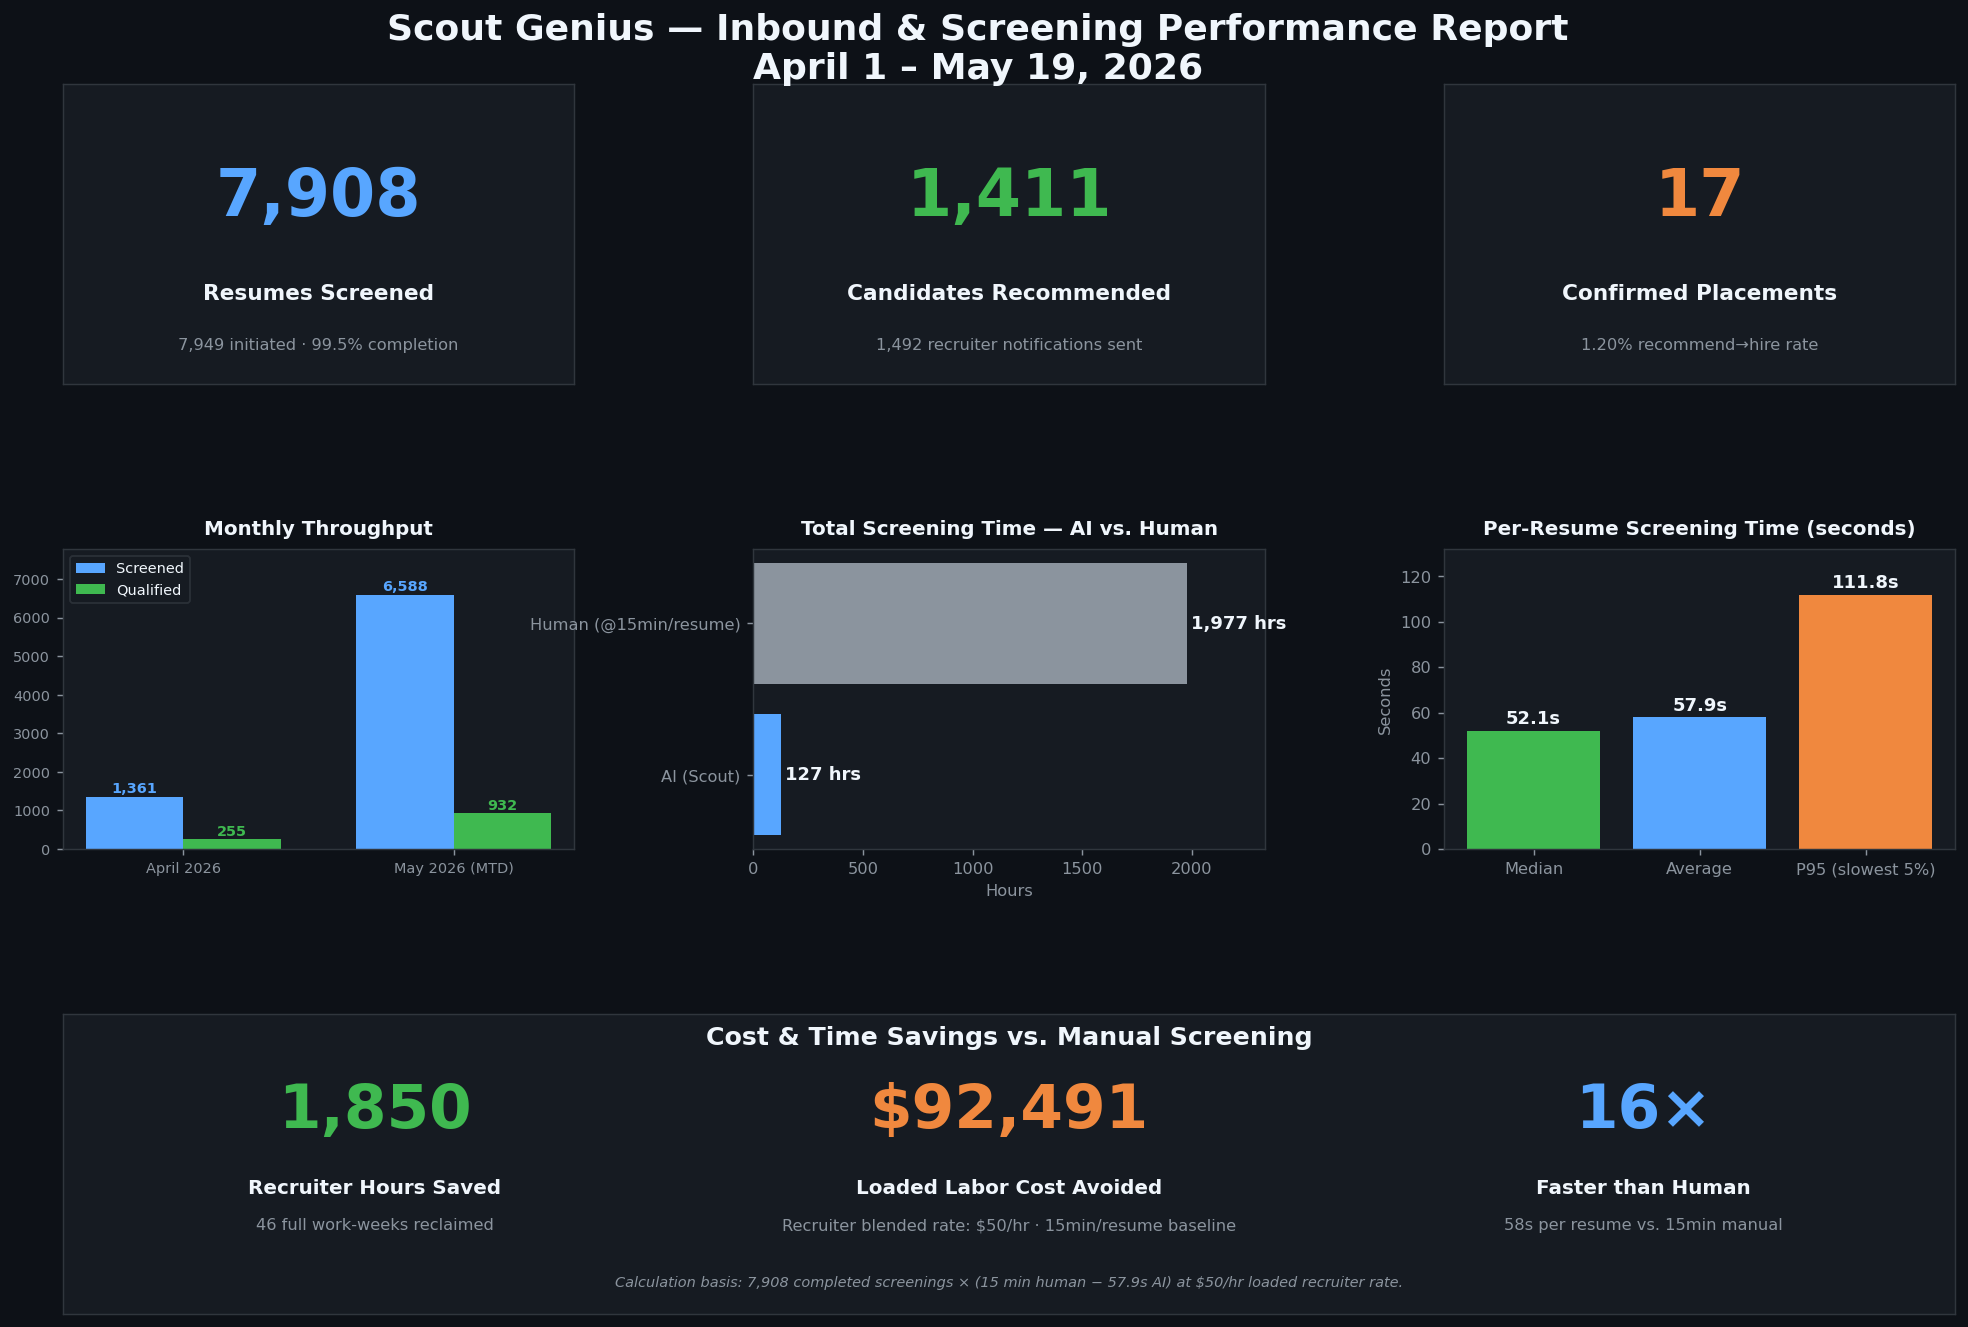
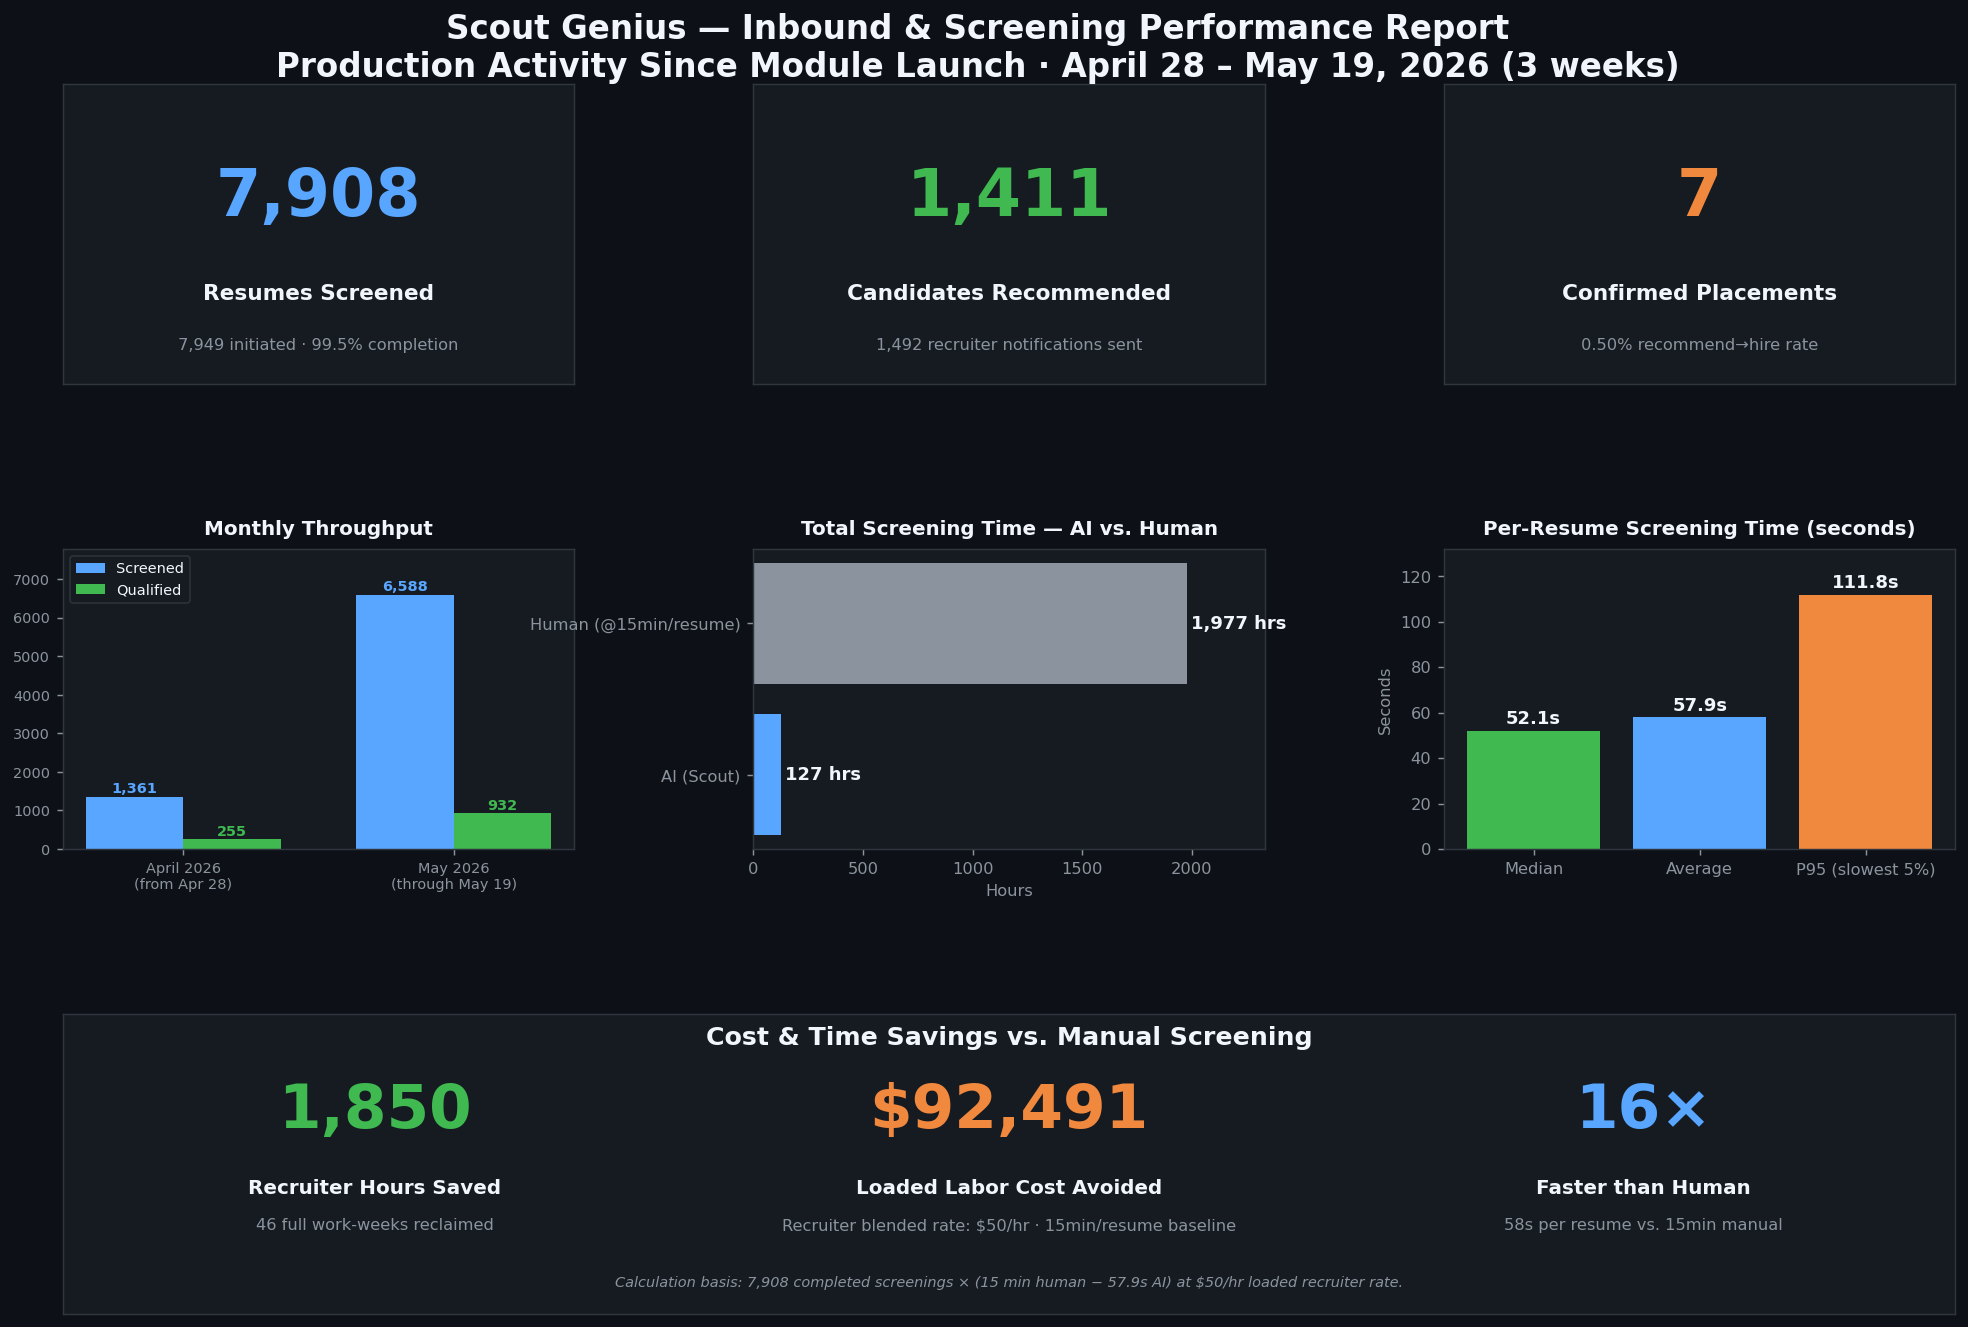
Update performance report to accurately reflect system launch date and placement numbers
Adjust report generation script to set the accurate module launch date as April 28, 2026, and revise the confirmed placements figure from 17 to 7, reflecting a more conservative and defensible estimate based on the revised 3-week operational window.

Replit-Commit-Author: Agent
Replit-Commit-Session-Id: 9879a031-e87a-4a13-9e2b-0b7f1a2570a6
Replit-Commit-Checkpoint-Type: full_checkpoint
Replit-Commit-Event-Id: 7f506cf2-b832-4e0f-9b3e-9cf4c4865df1
Replit-Commit-Screenshot-Url: https://storage.googleapis.com/screenshot-production-us-central1/49cc4d39-c8af-4fa8-8edf-ea2819b0c88a/9879a031-e87a-4a13-9e2b-0b7f1a2570a6/eNwcRr4
Replit-Helium-Checkpoint-Created: true

Changed region(s): [[0.124, 0.0, 0.8679, 0.0618], [0.8369, 0.1236, 0.8989, 0.1854], [0.186, 0.6488, 0.248, 0.6797]]

diff --git a/reports/generate_perf_report.py b/reports/generate_perf_report.py
@@ -14,7 +14,7 @@ INBOUND_LANDED = 6176
 AVG_SEC = 57.9
 MEDIAN_SEC = 52.1
 P95_SEC = 111.8
-PLACEMENTS = 17
+PLACEMENTS = 7
 
 HUMAN_MIN_PER_RESUME = 15
 RECRUITER_HOURLY = 50
@@ -30,8 +30,8 @@ fig = plt.figure(figsize=(16, 11), facecolor='#0d1117')
 gs = GridSpec(3, 3, figure=fig, hspace=0.55, wspace=0.35,
               left=0.06, right=0.97, top=0.92, bottom=0.06)
 
-fig.suptitle('Scout Genius — Inbound & Screening Performance Report\nApril 1 – May 19, 2026',
-             fontsize=20, fontweight='bold', color='#f0f6fc', y=0.97)
+fig.suptitle('Scout Genius — Inbound & Screening Performance Report\nProduction Activity Since Module Launch · April 28 – May 19, 2026 (3 weeks)',
+             fontsize=18, fontweight='bold', color='#f0f6fc', y=0.97)
 
 TILE_BG = '#161b22'
 ACCENT = '#58a6ff'
@@ -57,7 +57,7 @@ ax3 = fig.add_subplot(gs[0, 2]); kpi_tile(ax3, f'{PLACEMENTS}', 'Confirmed Place
 
 ax4 = fig.add_subplot(gs[1, 0])
 ax4.set_facecolor(TILE_BG)
-months = ['April 2026', 'May 2026 (MTD)']
+months = ['April 2026\n(from Apr 28)', 'May 2026\n(through May 19)']
 screened = [1361, 6588]
 qualified = [255, 932]
 x = range(len(months))